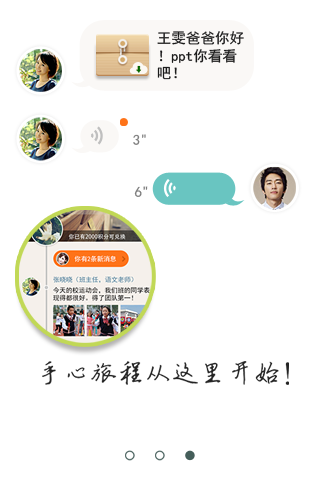
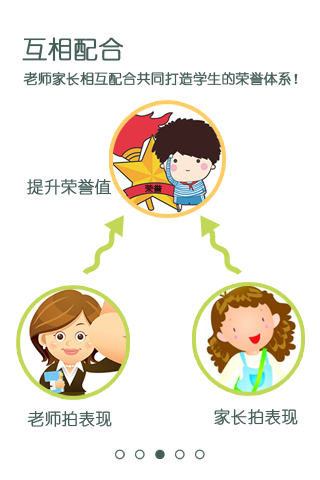
asy

diff --git a/teacher/UI2iPhone/Guid/GuidViewController.m b/teacher/UI2iPhone/Guid/GuidViewController.m
@@ -48,8 +48,8 @@
         bgImage.frame = CGRectMake(0.0f, 0.0f, 320.0f, 568.0f);
         bgImage.image = [UIImage imageNamed:@"bgs"];
         scrollView.frame = CGRectMake(0.0f, 0.0f, 320.0f, 568.0f);
-        scrollView.contentSize = CGSizeMake(320.0f * 3, 568.0f);
-        for (int i = 1 ; i<=3; i++) {
+        scrollView.contentSize = CGSizeMake(320.0f * 5, 568.0f);
+        for (int i = 1 ; i<=5; i++) {
             UIImageView *image = [[UIImageView alloc] initWithFrame:CGRectMake(0.0f + (i-1) * 320.0f, 0.0f, 320.0f, 568.0f)];
             image.image = [UIImage imageNamed:[NSString stringWithFormat:@"%ds",i]];
             [scrollView addSubview:image];
@@ -58,15 +58,15 @@
         bgImage.frame = CGRectMake(0.0f, 0.0f, 320.0f, 480.0f);
         bgImage.image = [UIImage imageNamed:@"bg"];
         scrollView.frame = CGRectMake(0.0f, 0.0f, 320.0f, 480.0f);
-        scrollView.contentSize = CGSizeMake(320.0f * 3, 480.0f);
-        for (int i = 1 ; i<=3; i++) {
+        scrollView.contentSize = CGSizeMake(320.0f * 5, 480.0f);
+        for (int i = 1 ; i<=5; i++) {
             UIImageView *image = [[UIImageView alloc] initWithFrame:CGRectMake(0.0f + (i-1) * 320.0f, 0.0f, 320.0f, 480.0f)];
             image.image = [UIImage imageNamed:[NSString stringWithFormat:@"%d",i]];
             [scrollView addSubview:image];
         }
     }
     
-    self.button = [[UIButton alloc] initWithFrame:CGRectMake(640.0f + 87.5, self.screenHeight - 120.0f, 145.0f, 32.0f)];
+    self.button = [[UIButton alloc] initWithFrame:CGRectMake(1280.0f + 87.5, self.screenHeight - 120.0f, 145.0f, 32.0f)];
     [self.button setBackgroundImage:[UIImage imageNamed:@"begin"] forState:UIControlStateNormal];
     [self.button setBackgroundImage:[UIImage imageNamed:@"begin"] forState:UIControlStateHighlighted];
     [self.button addTarget:self action:@selector(loadLogin:) forControlEvents:UIControlEventTouchUpInside];
